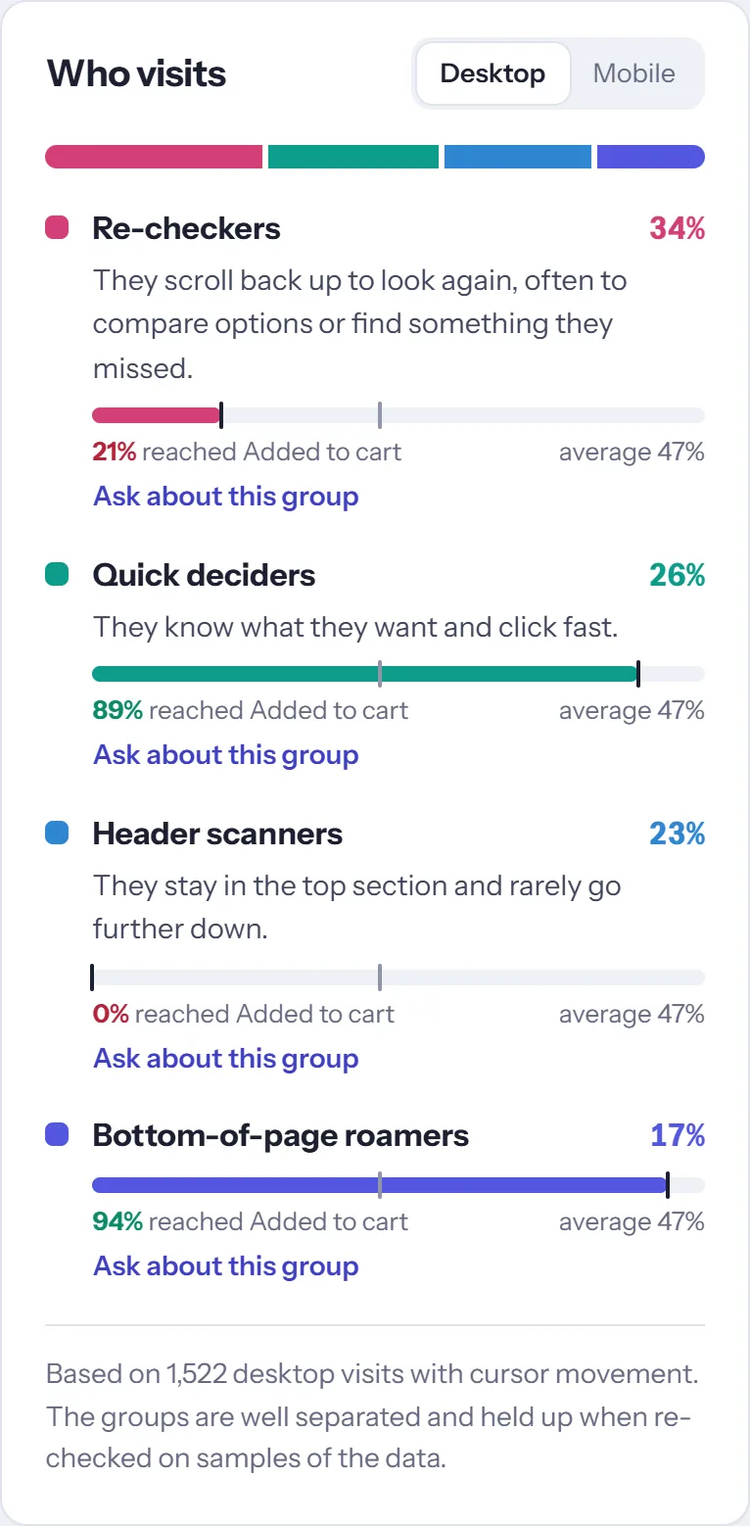
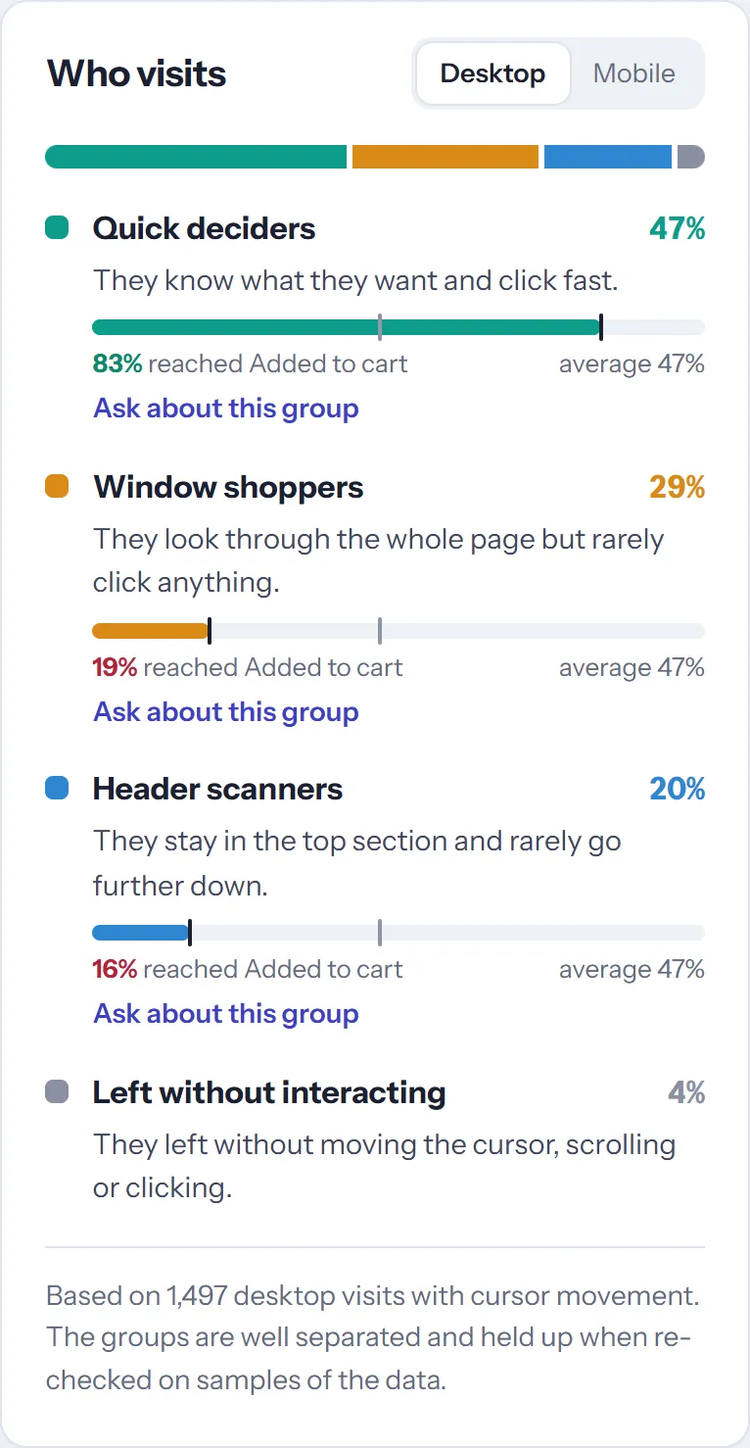
Tidy the homepage and give the demo store a better story
- What you'll find out and the section gaps are evenly spaced, and the homepage no longer scrolls sideways on phones
- The tracker size reads about 5 KB, and icon and picture links carry versions so browsers fetch the new ones
- The same suggestion on desktop and phones is shown once, with both groups' numbers
- The attention summary states the share without guessing why
- This week's goal bar waits for 30 visits, and visitors who never interacted don't show a 0% goal line
- The demo store improves over its last three weeks, and the homepage pictures are retaken from it

diff --git a/server/public/tracetray.html b/server/public/tracetray.html
@@ -7,9 +7,9 @@
 <meta name="description" content="Privacy-friendly behavioural analytics: machine-learning visitor groups, journeys and recommendations to improve user experience and conversions, with no cookies, recordings or proxy setup.">
 <meta name="robots" content="index, follow, max-image-preview:large">
 <link rel="canonical" href="https://tracetray.com/">
-<link rel="icon" href="/favicon.ico" sizes="any">
-<link rel="icon" type="image/svg+xml" href="/favicon.svg">
-<link rel="apple-touch-icon" href="/apple-touch-icon.png">
+<link rel="icon" href="/favicon.ico?v=2" sizes="any">
+<link rel="icon" type="image/svg+xml" href="/favicon.svg?v=2">
+<link rel="apple-touch-icon" href="/apple-touch-icon.png?v=2">
 <link rel="manifest" href="/site.webmanifest">
 <meta name="theme-color" content="#141724">
 <meta property="og:type" content="website">
@@ -123,7 +123,7 @@ section { padding: 104px 0; }
 .row + .row { margin-top: 112px; }
 .row.flip { grid-template-columns: minmax(0, 1.2fr) minmax(0, 0.8fr); }
 .row.flip .row-copy { order: 2; }
-.row-copy { display: grid; gap: 16px; }
+.row-copy { display: grid; grid-template-columns: minmax(0, 1fr); gap: 16px; }
 .row-copy p { color: var(--ink-2); }
 .row-copy ul { margin: 0; padding: 0; list-style: none; display: grid; gap: 10px; }
 .row-copy li { display: grid; grid-template-columns: 12px minmax(0, 1fr); gap: 12px; align-items: baseline; color: var(--ink-2); }
@@ -133,7 +133,7 @@ section { padding: 104px 0; }
 .pair .frame:first-child { width: 84%; }
 .pair .frame:last-child { position: absolute; right: 0; bottom: 0; width: 23%; box-shadow: 0 24px 48px rgba(0, 0, 0, 0.45); }
 .frame { border-radius: 16px; overflow: hidden; border: 1px solid var(--line); background: var(--paper); box-shadow: 0 30px 60px -36px rgba(28, 32, 48, 0.5); }
-.card-shot { max-width: 340px; justify-self: center; }
+.card-shot { width: 100%; max-width: 340px; justify-self: center; }
 .row.tall { grid-template-columns: minmax(0, 500px) auto; justify-content: center; gap: 96px; }
 .row.flip.tall { grid-template-columns: auto minmax(0, 500px); }
 
@@ -146,12 +146,12 @@ section { padding: 104px 0; }
 .compare p { color: var(--ink-2); }
 .compare div:not(.us) h3 { color: var(--muted); }
 .compare .us { border: 2px solid transparent; background: linear-gradient(var(--paper), var(--paper)) padding-box, var(--heat) border-box; }
-.extras { padding-bottom: 0; }
+#how, .extras { padding-bottom: 0; }
 .extras-grid.three { grid-template-columns: repeat(3, minmax(0, 1fr)); }
 .privacy-link { margin-top: 20px; font-weight: 600; }
 .findings { padding-bottom: 0; }
-.finding-list { list-style: none; margin: 0; padding: 0; display: grid; grid-template-columns: repeat(auto-fit, minmax(300px, 1fr)); gap: 18px 28px; }
-.finding-list li { display: grid; gap: 4px; padding-left: 16px; border-left: 3px solid var(--c); }
+.finding-list { list-style: none; margin: 0; padding: 0; display: grid; grid-template-columns: repeat(auto-fit, minmax(300px, 1fr)); gap: 32px 28px; }
+.finding-list li { display: grid; gap: 4px; align-content: start; padding-left: 16px; border-left: 3px solid var(--c); }
 .finding-list b { font-size: 18.5px; letter-spacing: -0.01em; }
 .finding-list span { color: var(--ink-2); }
 .lead-line { font-size: 19px; color: var(--ink); font-weight: 500; }
@@ -162,7 +162,7 @@ section { padding: 104px 0; }
 .extras-grid p { color: var(--ink-2); }
 
 .setup-note { font-size: 15px; color: var(--graphite-ink); }
-.questions { margin: 0; padding: 0; list-style: none; display: grid; gap: 8px; }
+.questions { margin: 0; padding: 0; list-style: none; display: grid; grid-template-columns: minmax(0, 1fr); gap: 8px; }
 .questions li { display: block; width: max-content; max-width: 100%; border: 1px solid var(--line); background: var(--paper); border-radius: 999px; padding: 7px 16px; font-size: 15px; color: var(--ink); }
 
 .method li { display: block; padding-left: 14px; border-left: 3px solid var(--warm); }
@@ -203,11 +203,11 @@ footer span { margin-left: auto; }
   .pair .frame:last-child { position: static; width: 60%; justify-self: center; }
   .top nav a:not(.btn) { display: none; }
   .top nav { gap: 10px; }
-  .hero-grid, .row, .row.flip, .row.tall, .row.flip.tall, .faq { grid-template-columns: 1fr; gap: 36px; }
+  .hero-grid, .row, .row.flip, .row.tall, .row.flip.tall, .faq { grid-template-columns: minmax(0, 1fr); gap: 36px; }
   .row.flip .row-copy { order: 0; }
   .screen { transform: none; }
   .hud p { display: none; }
-  .steps, .plans, .compare, .extras-grid, .extras-grid.three { grid-template-columns: 1fr; }
+  .steps, .plans, .compare, .extras-grid, .extras-grid.three { grid-template-columns: minmax(0, 1fr); }
   section { padding: 72px 0; }
   .row + .row { margin-top: 72px; }
 }
@@ -253,7 +253,7 @@ footer span { margin-left: auto; }
         </div>
         <p class="setup-note">Two lines to install. No proxy or tag manager. Start collecting in minutes.</p>
       </div>
-      <div class="screen"><img src="/assets/home/dash-group.webp" width="2880" height="1800" alt="The TraceTray dashboard showing an outdoor gear shop's product pages, how many reach Added to cart, and the visitor groups who use them"></div>
+      <div class="screen"><img src="/assets/home/dash-group.webp?v=2" width="2880" height="1800" alt="The TraceTray dashboard showing an outdoor gear shop's product pages, how many reach Added to cart, and the visitor groups who use them"></div>
     </div>
     <div class="wrap">
       <div class="hud" aria-live="off">
@@ -303,7 +303,7 @@ footer span { margin-left: auto; }
           <h2>Goals for every page</h2>
           <p>Pick what a page is for, such as a buy button, a sign-up form or the next page, and see how many visits get there, week by week.</p>
         </div>
-        <div class="frame"><img src="/assets/home/goals.webp" width="1416" height="948" alt="Product pages: 46% of visits reached Added to cart in the last 30 days, with the rate for each of the last 12 weeks"></div>
+        <div class="frame"><img src="/assets/home/goals.webp?v=2" width="1424" height="1076" alt="Product pages: 52% of visits reached Added to cart in the last 30 days, with the rate for each week and the best week the most recent"></div>
       </div>
 
       <div class="row flip">
@@ -311,7 +311,7 @@ footer span { margin-left: auto; }
           <h2>What to change, and why</h2>
           <p>When a group of visitors falls short of the page's goal, TraceTray shows why from the numbers: where they stop scrolling, which link takes them off the page, or how long they hesitate. No suggestion appears without the figures behind it.</p>
         </div>
-        <div class="frame"><img src="/assets/home/advice.webp" width="1186" height="688" alt="What to try: make it clearer what Add to cart leads to. Re-checkers wait about 2.7 seconds before clicking, 1.8 times the page average, and only 21% add to cart, against 47% overall"></div>
+        <div class="frame"><img src="/assets/home/advice.webp?v=2" width="1186" height="508" alt="What to try: make it clearer what Add to cart leads to. Window shoppers wait about 2.6 seconds before clicking, 2.2 times the page average, and only 19% add to cart against 47% overall, and phones show the same"></div>
       </div>
 
       <div class="row tall">
@@ -323,7 +323,7 @@ footer span { margin-left: auto; }
             <li>Every split is checked against data with no groups in it and on random samples. If none holds up, TraceTray says visitors behave alike.</li>
           </ul>
         </div>
-        <div class="frame card-shot"><img src="/assets/home/who.webp" width="766" height="1558" alt="Who visits the product pages: each group with how often it adds to cart against the average, from quick deciders near 90% to re-checkers near 20%"></div>
+        <div class="frame card-shot"><img src="/assets/home/who.webp?v=2" width="766" height="1478" alt="Who visits the product pages: each group with how often it adds to cart against the average, from quick deciders at 83% to window shoppers at 19%"></div>
       </div>
 
       <div class="row flip">
@@ -332,8 +332,8 @@ footer span { margin-left: auto; }
           <p>See it on the page itself: where cursors spend time, where the first screen ends, and how far down people get before they leave. Phones have no cursor, so there the shading shows where people stop to read.</p>
         </div>
         <div class="pair">
-          <div class="frame"><img src="/assets/home/attention.webp" width="2000" height="1300" alt="The shop's homepage shaded where the cursor spends time, with lines where the first screen ends and how far visitors get, beside the share of activity in each third of the page"></div>
-          <div class="frame"><img src="/assets/home/attention-phone.webp" width="492" height="1150" alt="On phones: the homepage shaded where visitors stop to read, with how far down they get, how often they tap and how long they stop"></div>
+          <div class="frame"><img src="/assets/home/attention.webp?v=2" width="2000" height="1300" alt="The shop's homepage shaded where the cursor spends time, with lines where the first screen ends and how far visitors get, beside the share of activity in each third of the page"></div>
+          <div class="frame"><img src="/assets/home/attention-phone.webp?v=2" width="492" height="1150" alt="On phones: the homepage shaded where visitors stop to read, with how far down they get, how often they tap and how long they stop"></div>
         </div>
       </div>
 
@@ -347,7 +347,7 @@ footer span { margin-left: auto; }
             <li>Has anything changed since I redesigned the homepage?</li>
           </ul>
         </div>
-        <div class="frame"><img src="/assets/home/ask.webp" width="1754" height="876" alt="Ask answering &ldquo;Why don&rsquo;t re-checkers on the product pages add to cart?&rdquo;: only 21% of them reach Added to cart against 47%, most open the size guide and reviews, and one suggestion"></div>
+        <div class="frame"><img src="/assets/home/ask.webp?v=2" width="1680" height="920" alt="Ask answering &ldquo;Why don&rsquo;t window shoppers on the product pages add to cart?&rdquo;: only 19% of them reach Added to cart against 47%, most open the size guide and reviews, and one suggestion"></div>
       </div>
 
       <div class="row flip">
@@ -355,7 +355,7 @@ footer span { margin-left: auto; }
           <h2>Detailed visitor journeys</h2>
           <p>Follow visitors across your whole site: where they arrive, the paths they take, and where they leave. Set up a funnel to see which step of a checkout or sign-up loses people.</p>
         </div>
-        <div class="frame"><img src="/assets/home/journeys.webp" width="2000" height="2200" alt="Journeys: where visitors arrive and leave, and the most common moves between pages"></div>
+        <div class="frame"><img src="/assets/home/journeys.webp?v=2" width="2000" height="2200" alt="Journeys: where visitors arrive and leave, and the most common moves between pages"></div>
       </div>
 
       <div class="row">
@@ -363,7 +363,7 @@ footer span { margin-left: auto; }
           <h2>Hundreds of pages, one view</h2>
           <p>Pages that share a URL pattern, like <b>/products/:product</b>, are analyzed together, so low-traffic pages still add up. TraceTray suggests the patterns.</p>
         </div>
-        <div class="frame"><img src="/assets/home/pages.webp" width="2200" height="1520" alt="The page tree with product, collection and post pages grouped, and the 24 product pages in one view"></div>
+        <div class="frame"><img src="/assets/home/pages.webp?v=2" width="2200" height="1520" alt="The page tree with product, collection and post pages grouped, and the 24 product pages in one view"></div>
       </div>
     </div>
   </section>
@@ -411,7 +411,7 @@ footer span { margin-left: auto; }
     <div class="wrap">
       <div class="section-head"><h2>Light on your site</h2></div>
       <div class="extras-grid three">
-        <div><h3>About 4 KB</h3><p>Smaller than most images. Loads after your page does.</p></div>
+        <div><h3>About 5 KB</h3><p>Smaller than most images. Loads after your page does.</p></div>
         <div><h3>No workarounds needed</h3><p>No proxy, tag manager or server-side setup to keep data coming in.</p></div>
         <div><h3>Works with single-page apps</h3><p>Route changes in React, Vue, Next.js and other SPAs are tracked&nbsp;automatically.</p></div>
       </div>

diff --git a/server/scripts/seed-demo.js b/server/scripts/seed-demo.js
@@ -10,6 +10,7 @@ const { regroupSite } = require("../src/lib/pageDays");
 const DAY_MS = 24 * 60 * 60 * 1000;
 const VISITORS = 3200;
 const HISTORY_DAYS = 84;
+const CHANGE_DAYS_AGO = 20;
 
 const PRODUCTS = [
     "ridge-40-pack", "summit-25-daypack", "trailhead-55-pack", "cedar-2-tent", "alpine-ultralight-tent", "basecamp-4-tent",
@@ -32,7 +33,7 @@ const between = (a, b) => a + rand() * (b - a);
 const DESKTOP = {
     buyer:    { weight: 40, duration: [25, 60], speed: [0.5, 0.9], pauses: [2, 5], depth: [0.4, 0.65], yBias: 0.9, dwell: [400, 900] },
     comparer: { weight: 35, duration: [90, 240], speed: [0.15, 0.35], pauses: [8, 18], depth: [0.75, 1], yBias: 0.55, dwell: [2000, 4200], backtrack: true },
-    scanner:  { weight: 25, duration: [4, 10], speed: [1.6, 2.6], pauses: [0, 1], depth: [0.05, 0.15], yBias: 2.6, dwell: [200, 500] }
+    scanner:  { weight: 25, duration: [8, 18], speed: [1.6, 2.6], pauses: [0, 1], depth: [0.05, 0.15], yBias: 2.6, dwell: [200, 500] }
 };
 const PHONE = {
     tapper:  { weight: 40, duration: [20, 60], taps: [3, 7], pauses: [1, 3], pauseMs: [800, 1600], depth: [0.4, 0.7] },
@@ -46,8 +47,8 @@ function journey() {
     if (r < 0.12) return ["/journal/" + pick(POSTS), "/products/" + product];
     if (r < 0.3) return ["/products/" + product, "/products/" + pick(PRODUCTS)];
     const path = ["/", "/collections/" + pick(COLLECTIONS), "/products/" + product];
-    if (rand() < 0.35) path.push("/cart");
-    if (path.includes("/cart") && rand() < 0.55) path.push("/checkout");
+    if (rand() < 0.4) path.push("/cart");
+    if (path.includes("/cart") && rand() < 0.8) path.push("/checkout");
     return path.slice(0, 1 + Math.floor(rand() * path.length));
 }
 
@@ -56,14 +57,14 @@ const target = text => ({ tag: rand() < 0.6 ? "BUTTON" : "A", id: null, text, hr
 // What each kind of shopper clicks, so the demo's groups, goals and suggestions tell one consistent story.
 const KIND = { buyer: "decider", tapper: "decider", comparer: "browser", reader: "browser", scanner: "leaver", bouncer: "leaver" };
 function clickChoices(kind, path) {
-    if (path === "/") return { decider: [["Shop hiking packs", 90], ["New arrivals", 10]], browser: [["New arrivals", 70], ["Shop hiking packs", 15], ["Journal", 15]], leaver: [["New arrivals", 1]] }[kind];
-    if (path.startsWith("/products")) return { decider: [["Add to cart", 80], ["Colour: Moss", 12], ["Size: M", 8]], browser: [["Size guide", 52], ["Reviews", 40], ["Add to cart", 8]], leaver: [["Reviews", 1]] }[kind];
+    if (path === "/") return { decider: [["Shop hiking packs", 70], ["New arrivals", 30]], browser: [["New arrivals", 70], ["Shop hiking packs", 15], ["Journal", 15]], leaver: [["Shop hiking packs", 60], ["New arrivals", 40]] }[kind];
+    if (path.startsWith("/products")) return { decider: [["Add to cart", 55], ["Colour: Moss", 25], ["Size: M", 20]], browser: [["Size guide", 52], ["Reviews", 40], ["Add to cart", 8]], leaver: [["Add to cart", 65], ["Reviews", 35]] }[kind];
     if (path.startsWith("/collections")) return [["Ridge 40L Pack", 40], ["Summit 25 Daypack", 35], ["Filter: Waterproof", 25]];
     if (path === "/cart") return [["Checkout", 80], ["Remove", 20]];
     if (path === "/checkout") return [["Pay now", 1]];
     return [["Shop the gear", 1]];
 }
-const clickCount = kind => kind === "leaver" ? (rand() < 0.1 ? 1 : 0) : kind === "decider" ? 2 + Math.floor(rand() * 2) : 1 + Math.floor(rand() * 4);
+const clickCount = kind => kind === "leaver" ? (rand() < 0.3 ? 1 : 0) : kind === "decider" ? 2 + Math.floor(rand() * 2) : 1 + Math.floor(rand() * 4);
 // Where the storefront's main button sits, as a share of the page, so its clicks land on it in the demo picture.
 const HERO_BUTTON = { desktop: 0.173, mobile: 0.13 };
 
@@ -130,7 +131,7 @@ function phoneEvents(start, persona, path) {
             viewport_midpoint: scrollAt(scrolls, t) + viewport / 2, page_height: pageHeight, viewport_height: viewport, timestamp: t });
     }
     const firstScroll = (scrolls[1]?.timestamp ?? start + durationMs) - start;
-    const count = KIND[persona] === "leaver" ? (rand() < 0.1 ? 1 : 0) : Math.max(1, Math.min(taps, 3));
+    const count = KIND[persona] === "leaver" ? (rand() < 0.3 ? 1 : 0) : Math.max(1, Math.min(taps, 3));
     for (let i = 0; i < count; i++) {
         const text = weighted(clickChoices(KIND[persona], path));
         const hero = path === "/" && text === "Shop hiking packs";
@@ -164,11 +165,17 @@ function isLocal(uri) {
         const daysAgo = Math.floor(HISTORY_DAYS * rand() ** 1.6);
         let start = now - daysAgo * DAY_MS - Math.floor(rand() * DAY_MS * 0.9);
         const mobile = rand() < 0.38;
-        const persona = mobile ? weighted(Object.entries(PHONE).map(([k, p]) => [k, p.weight])) : weighted(Object.entries(DESKTOP).map(([k, p]) => [k, p.weight]));
+        // The store improved its product pages three weeks ago, so more shoppers buy from then on.
+        const lift = daysAgo < CHANGE_DAYS_AGO ? 30 : 0;
+        const weights = (personas, first) => Object.entries(personas).map(([k, p]) => [k, k === first ? p.weight + lift : p.weight]);
+        const persona = mobile ? weighted(weights(PHONE, "tapper")) : weighted(weights(DESKTOP, "buyer"));
         const source = weighted(SOURCES);
         const path = journey();
         path.forEach((page, step) => {
-            const { events, durationMs } = mobile ? phoneEvents(start, persona, page) : desktopEvents(start, persona, page);
+            // A few visits open the page and do nothing at all.
+            const { events, durationMs } = rand() < 0.05
+                ? (d => ({ events: [{ type: "page_load", scroll_depth: 1, measured: true, timestamp: start }], durationMs: d }))(between(3, 9) * 1000)
+                : mobile ? phoneEvents(start, persona, page) : desktopEvents(start, persona, page);
             const count = type => events.filter(e => e.type === type).length;
             docs.push({
                 site_key: site.key, session_id: `demo-${v}-${step}`, visitor_id: `demo-visitor-${v}`,

diff --git a/server/src/lib/interpretClusters.js b/server/src/lib/interpretClusters.js
@@ -421,7 +421,7 @@ function adviceFor(cluster, story, base, goal, deviceLabel, visits, pagePath) {
     const waitMs = cluster.feature_means?.[deviceLabel === "mobile" ? "dwell_before_tap" : "dwell_before_click"];
     if (goal.type !== "page" && wait !== null && wait >= 1.5 && waitMs >= 1000) {
         return {
-            action: `Make it clearer what ${target} leads to; ${group} hesitate before acting.`,
+            action: `Make it clearer what ${target} leads to.`,
             evidence: `${who} wait about ${secs(waitMs)} before ${deviceLabel === "mobile" ? "tapping" : "clicking"}, ${wait.toFixed(1)}× the page average, and ${reach} (${vs}).`
         };
     }
@@ -542,10 +542,12 @@ function interpretClusters({ desktop, mobile = null, pageUrl = null, firstImpres
     const pagePath = pathOf(pageUrl);
     const d = describeDevice(desktop, ARCHETYPES.desktop, "desktop", goal, pagePath);
     const m = describeDevice(mobile, ARCHETYPES.mobile, "mobile", goal, pagePath);
-    // The same finding on phones adds nothing once desktop has it.
-    const advice = [...(d?.advice || [])];
+    // The same finding on phones joins the desktop one instead of repeating it.
+    const advice = (d?.advice || []).map(a => ({ ...a }));
     for (const item of m?.advice || []) {
-        if (!advice.some(a => (a.rival && a.rival === item.rival) || a.action === item.action)) advice.push(item);
+        const same = advice.find(a => (a.rival && a.rival === item.rival) || a.action === item.action);
+        if (!same) advice.push(item);
+        else if (same.device !== "mobile") same.evidence = `${same.evidence} On phones, ${item.evidence.charAt(0).toLowerCase()}${item.evidence.slice(1)}`;
     }
     advice.splice(2);
 

diff --git a/server/tests/interpretClusters.test.js b/server/tests/interpretClusters.test.js
@@ -79,6 +79,19 @@ test("a group falling short gets a suggestion only when its numbers say why", ()
     assert.deepEqual(onPage.advice, [], "a size guide or a jump to reviews keeps people on the page, so it isn't a way out");
 });
 
+test("the same suggestion on desktop and phones is given once, with both groups' numbers", () => {
+    const goal = { id: "g1", name: "Added to cart", type: "click", match: { text: "Add to cart" }, position: null };
+    const device = (wait, feature) => ({ session_count: 200, clusters: [
+        { ...cluster(0, 100, { [feature]: 400, click_rate: 0.05 }), goal_hits: { g1: 70 } },
+        { ...cluster(1, 100, { [feature]: wait, click_rate: 0.05 }), goal_hits: { g1: 10 } },
+    ] });
+    const result = interpretClusters({ desktop: device(2700, "dwell_before_click"), mobile: device(4200, "dwell_before_tap"),
+        pageUrl: "https://shop.example/products/boot", goal });
+    assert.equal(result.advice.length, 1);
+    assert.equal(result.advice[0].action, "Make it clearer what “Add to cart” leads to.");
+    assert.match(result.advice[0].evidence, /of desktop visits\) wait about 2\.7 s before clicking.+ On phones, .+of mobile visits\) wait about 4\.2 s before tapping/);
+});
+
 test("fewer than 100 analysed visits gets no suggestions and says why", () => {
     const goal = { id: "g1", name: "checkout", type: "click", match: { href: "/cart" }, position: { desktop: 0.8, mobile: null } };
     const result = interpretClusters({ desktop: { session_count: 60, structure: "clear", clusters: [

diff --git a/server/public/pricing.html b/server/public/pricing.html
@@ -21,9 +21,9 @@
 <meta name="twitter:description" content="TraceTray plans and pricing: Starter, Pro and Ultra, each with a 30-day free trial, and custom Enterprise plans. Compare visits, pages, websites, history and features.">
 <meta name="twitter:image" content="https://tracetray.com/social-preview.png?v=6">
 <meta name="twitter:image:alt" content="Three TraceTray panels, attention, journeys and visitor groups, beside the headline Understand how people use your site">
-<link rel="icon" href="/favicon.ico" sizes="any">
-<link rel="icon" type="image/svg+xml" href="/favicon.svg">
-<link rel="apple-touch-icon" href="/apple-touch-icon.png">
+<link rel="icon" href="/favicon.ico?v=2" sizes="any">
+<link rel="icon" type="image/svg+xml" href="/favicon.svg?v=2">
+<link rel="apple-touch-icon" href="/apple-touch-icon.png?v=2">
 <link rel="manifest" href="/site.webmanifest">
 <meta name="theme-color" content="#141724">
 <title>TraceTray Pricing</title>

diff --git a/web/src/tabs/VisitorsTab.tsx b/web/src/tabs/VisitorsTab.tsx
@@ -92,7 +92,7 @@ export default function VisitorsTab({ result, page }: { result: AnalysisResult; 
               <div className="panel-body type-body">
                 <div className="meter" aria-hidden="true"><i style={{ width: `${inactive.share * 100}%` }} /></div>
                 <p className="muted">{inactive.count.toLocaleString()} visits</p>
-                {inactive.goal && <p className="group-goal"><span className="verdict">{rate(inactive.goal.rate)} reached {inactive.goal.name}</span></p>}
+                {inactive.goal?.rate ? <p className="group-goal"><span className="verdict">{rate(inactive.goal.rate)} reached {inactive.goal.name}</span></p> : null}
                 <p>{INACTIVE_TEXT[device]} Some read without touching anything; others left straight away. They can't be grouped, since there's no behaviour to compare.</p>
               </div>
             </section>

diff --git a/server/public/collects.html b/server/public/collects.html
@@ -6,9 +6,9 @@
 <meta name="description" content="Exactly what the TraceTray tracker collects from your visitors, what it never collects, how visits are grouped without cookies, and how long data is kept.">
 <meta name="robots" content="index, follow">
 <link rel="canonical" href="https://tracetray.com/collects">
-<link rel="icon" href="/favicon.ico" sizes="any">
-<link rel="icon" type="image/svg+xml" href="/favicon.svg">
-<link rel="apple-touch-icon" href="/apple-touch-icon.png">
+<link rel="icon" href="/favicon.ico?v=2" sizes="any">
+<link rel="icon" type="image/svg+xml" href="/favicon.svg?v=2">
+<link rel="apple-touch-icon" href="/apple-touch-icon.png?v=2">
 <link rel="manifest" href="/site.webmanifest">
 <meta name="theme-color" content="#141724">
 <title>What TraceTray Collects | TraceTray</title>

diff --git a/server/src/lib/attentionProfile.js b/server/src/lib/attentionProfile.js
@@ -29,7 +29,7 @@ function attentionInsight({ top, middle, bottom }) {
     const [quiet, quietShare] = ranked[2];
     const p = v => `${Math.round(v * 100)}%`;
     if (share >= 0.5 && share >= ranked[1][1] * 1.25) {
-        if (lead === "top") return `Most cursor activity stays near the top: ${p(share)} happens in the top third of the page, so many visitors don't go much further.`;
+        if (lead === "top") return `Most cursor activity happens near the top: ${p(share)} of it is in the top third of the page.`;
         if (lead === "middle") return `Cursor activity gathers in the middle of the page, with ${p(share)} in the middle third.`;
         return `Visitors spend much of their time low on the page: ${p(share)} of cursor activity is in the bottom third.`;
     }

diff --git a/server/public/terms.html b/server/public/terms.html
@@ -6,9 +6,9 @@
 <meta name="description" content="TraceTray terms of service for accounts, behavioural website analytics, acceptable use, plans and billing, and third-party providers.">
 <meta name="robots" content="index, follow">
 <link rel="canonical" href="https://tracetray.com/terms">
-<link rel="icon" href="/favicon.ico" sizes="any">
-<link rel="icon" type="image/svg+xml" href="/favicon.svg">
-<link rel="apple-touch-icon" href="/apple-touch-icon.png">
+<link rel="icon" href="/favicon.ico?v=2" sizes="any">
+<link rel="icon" type="image/svg+xml" href="/favicon.svg?v=2">
+<link rel="apple-touch-icon" href="/apple-touch-icon.png?v=2">
 <link rel="manifest" href="/site.webmanifest">
 <meta name="theme-color" content="#141724">
 <title>Terms of Service | TraceTray</title>

diff --git a/server/public/privacy.html b/server/public/privacy.html
@@ -6,9 +6,9 @@
 <meta name="description" content="TraceTray privacy policy covering accounts, behavioural website analytics, data storage, third-party providers, and user choices.">
 <meta name="robots" content="index, follow">
 <link rel="canonical" href="https://tracetray.com/privacy">
-<link rel="icon" href="/favicon.ico" sizes="any">
-<link rel="icon" type="image/svg+xml" href="/favicon.svg">
-<link rel="apple-touch-icon" href="/apple-touch-icon.png">
+<link rel="icon" href="/favicon.ico?v=2" sizes="any">
+<link rel="icon" type="image/svg+xml" href="/favicon.svg?v=2">
+<link rel="apple-touch-icon" href="/apple-touch-icon.png?v=2">
 <link rel="manifest" href="/site.webmanifest">
 <meta name="theme-color" content="#141724">
 <title>Privacy Policy | TraceTray</title>

diff --git a/web/index.html b/web/index.html
@@ -5,8 +5,8 @@
   <script defer src="/app-prompt.js" data-app-name="TraceTray" data-play-url=""></script>
   <meta name="viewport" content="width=device-width, initial-scale=1.0">
   <meta name="robots" content="noindex, nofollow">
-  <link rel="icon" href="/favicon.ico" sizes="any">
-  <link rel="icon" type="image/svg+xml" href="/favicon.svg">
+  <link rel="icon" href="/favicon.ico?v=2" sizes="any">
+  <link rel="icon" type="image/svg+xml" href="/favicon.svg?v=2">
   <link rel="preconnect" href="https://fonts.googleapis.com">
   <link rel="preconnect" href="https://fonts.gstatic.com" crossorigin>
   <link href="https://fonts.googleapis.com/css2?family=Instrument+Sans:wght@400;500;600;700&display=swap" rel="stylesheet">

diff --git a/server/src/lib/goalHits.js b/server/src/lib/goalHits.js
@@ -175,6 +175,9 @@ async function goalWeeks(siteKey, goal, { page = null, weeks = 12, now = Date.no
         bucket.reached += row.goals?.[goal.id] || 0;
     }
     for (const b of buckets) b.rate = b.visits ? b.reached / b.visits : null;
+    // A week that has only just started says nothing yet, so it stays empty until it has enough visits.
+    const current = buckets[buckets.length - 1];
+    if (current.visits < MIN_WEEK_VISITS) current.rate = null;
     // The current week is still filling up, so it can't be the best one yet.
     const best = buckets.slice(0, -1).filter(b => b.visits >= MIN_WEEK_VISITS && b.rate !== null)
         .reduce((top, b) => (!top || b.rate > top.rate ? b : top), null);
